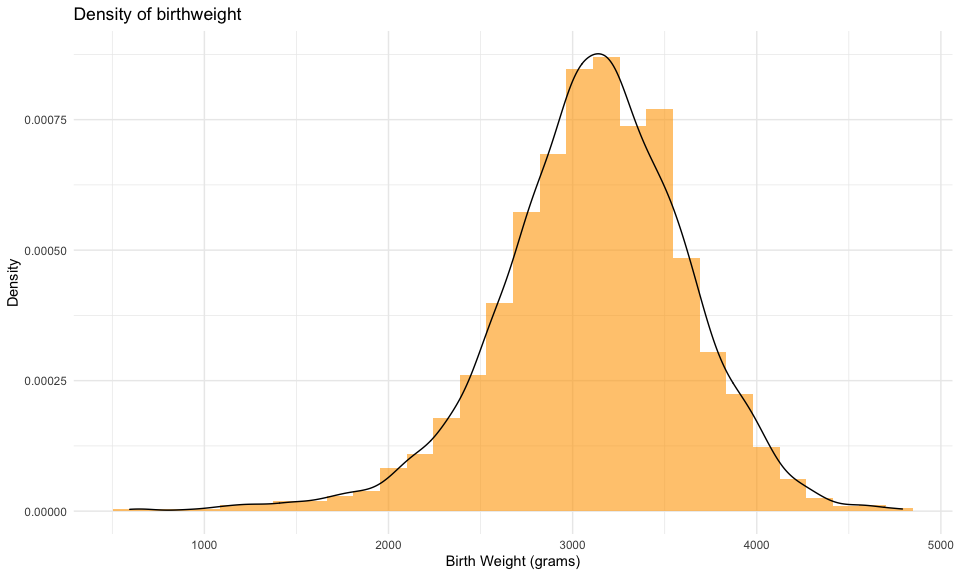
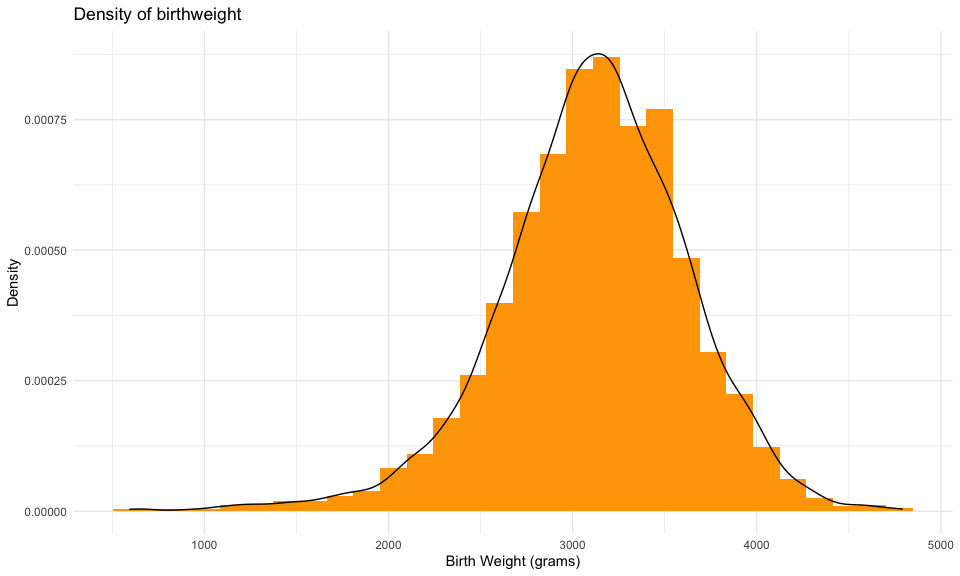
Problem 1 -> propose a regression model and simple diagnostics

Changed region(s): [[0.2188, 0.0938, 0.9375, 0.9062]]

diff --git a/p8105_hw6_qw2331.md b/p8105_hw6_qw2331.md
@@ -23,17 +23,30 @@ baby_bwt_df <-
     malform = factor(recode(malform, `0` = "absent", `1` = "present")),
     frace = factor(race[frace]),
     mrace = factor(race[mrace])
-  )
+  ) %>% 
+  distinct()
+
+# Check missing values
+baby_bwt_df %>% 
+  is.na() %>% 
+  colSums()
 ```
+
+    ##  babysex    bhead  blength      bwt    delwt  fincome    frace  gaweeks 
+    ##        0        0        0        0        0        0       14        0 
+    ##  malform menarche  mheight   momage    mrace   parity  pnumlbw  pnumsga 
+    ##        0        0        0        0        0        0        0        0 
+    ##    ppbmi     ppwt   smoken   wtgain 
+    ##        0        0        0        0
 
 ### 1.3 Propose a regression model
 
-**1.3.1 Check distribution of target variable `brithweight`**
+**1.3.1 Distribution of target variable `brithweight`**
 
 ``` r
 baby_bwt_df %>% 
   ggplot(aes(bwt)) + 
-  geom_histogram(aes(y = ..density..), fill = "orange", alpha = .6) +
+  geom_histogram(aes(y = ..density..), fill = "orange") +
   geom_density(alpha = .4) + 
   labs(
     title = "Density of birthweight",
@@ -47,7 +60,8 @@ baby_bwt_df %>%
 **1.3.2 Summary statistics and check outliers**
 
 ``` r
-# Check for missing values and a brief data review
+# Check for missing values
+# Or a brief data review using function str()
 summary(baby_bwt_df)
 ```
 
@@ -86,56 +100,6 @@ summary(baby_bwt_df)
     ##  Mean   : 4.145   Mean   : 22.08  
     ##  3rd Qu.: 5.000   3rd Qu.: 28.00  
     ##  Max.   :60.000   Max.   : 89.00
-
-``` r
-str(baby_bwt_df)
-```
-
-    ## spec_tbl_df [4,342 × 20] (S3: spec_tbl_df/tbl_df/tbl/data.frame)
-    ##  $ babysex : Factor w/ 2 levels "female","male": 1 2 1 2 1 2 1 1 2 2 ...
-    ##  $ bhead   : num [1:4342] 34 34 36 34 34 33 33 33 36 33 ...
-    ##  $ blength : num [1:4342] 51 48 50 52 52 52 46 49 52 50 ...
-    ##  $ bwt     : num [1:4342] 3629 3062 3345 3062 3374 ...
-    ##  $ delwt   : num [1:4342] 177 156 148 157 156 129 126 140 146 169 ...
-    ##  $ fincome : num [1:4342] 35 65 85 55 5 55 96 5 85 75 ...
-    ##  $ frace   : Factor w/ 4 levels "Asian","Black",..: 4 2 4 4 4 4 2 4 4 2 ...
-    ##  $ gaweeks : num [1:4342] 39.9 25.9 39.9 40 41.6 ...
-    ##  $ malform : Factor w/ 2 levels "absent","present": 1 1 1 1 1 1 1 1 1 1 ...
-    ##  $ menarche: num [1:4342] 13 14 12 14 13 12 14 12 11 12 ...
-    ##  $ mheight : num [1:4342] 63 65 64 64 66 66 72 62 61 64 ...
-    ##  $ momage  : num [1:4342] 36 25 29 18 20 23 29 19 13 19 ...
-    ##  $ mrace   : Factor w/ 4 levels "Asian","Black",..: 4 2 4 4 4 4 2 4 4 2 ...
-    ##  $ parity  : num [1:4342] 3 0 0 0 0 0 0 0 0 0 ...
-    ##  $ pnumlbw : num [1:4342] 0 0 0 0 0 0 0 0 0 0 ...
-    ##  $ pnumsga : num [1:4342] 0 0 0 0 0 0 0 0 0 0 ...
-    ##  $ ppbmi   : num [1:4342] 26.3 21.3 23.6 21.8 21 ...
-    ##  $ ppwt    : num [1:4342] 148 128 137 127 130 115 105 119 105 145 ...
-    ##  $ smoken  : num [1:4342] 0 0 1 10 1 0 0 0 0 4 ...
-    ##  $ wtgain  : num [1:4342] 29 28 11 30 26 14 21 21 41 24 ...
-    ##  - attr(*, "spec")=
-    ##   .. cols(
-    ##   ..   babysex = col_double(),
-    ##   ..   bhead = col_double(),
-    ##   ..   blength = col_double(),
-    ##   ..   bwt = col_double(),
-    ##   ..   delwt = col_double(),
-    ##   ..   fincome = col_double(),
-    ##   ..   frace = col_double(),
-    ##   ..   gaweeks = col_double(),
-    ##   ..   malform = col_double(),
-    ##   ..   menarche = col_double(),
-    ##   ..   mheight = col_double(),
-    ##   ..   momage = col_double(),
-    ##   ..   mrace = col_double(),
-    ##   ..   parity = col_double(),
-    ##   ..   pnumlbw = col_double(),
-    ##   ..   pnumsga = col_double(),
-    ##   ..   ppbmi = col_double(),
-    ##   ..   ppwt = col_double(),
-    ##   ..   smoken = col_double(),
-    ##   ..   wtgain = col_double()
-    ##   .. )
-    ##  - attr(*, "problems")=<externalptr>
 
 ``` r
 # Check outliers using boxplots
@@ -181,3 +145,68 @@ ggcorrplot::ggcorrplot(
 ```
 
 <img src="p8105_hw6_qw2331_files/figure-gfm/unnamed-chunk-3-1.png" width="90%" />
+
+**1.3.4 Fit a regression model and diagnostics**
+
+``` r
+# Fit a model
+baby_bwt_df <- 
+  baby_bwt_df %>% 
+  select(babysex, bhead, blength, bwt, gaweeks)
+
+mod1 <- lm(bwt ~ bhead + blength, data = baby_bwt_df)
+
+# Present the output
+mod1 %>% 
+  broom::tidy() %>% 
+  select(term, estimate, p.value) %>% 
+  knitr::kable(digits = 3)
+```
+
+| term        |  estimate | p.value |
+|:------------|----------:|--------:|
+| (Intercept) | -6029.620 |       0 |
+| bhead       |   146.021 |       0 |
+| blength     |    85.030 |       0 |
+
+``` r
+# Diagnostics
+# Residuals vs. Fits plot
+res_fit_plot <-   
+  baby_bwt_df %>% 
+  modelr::add_residuals(mod1) %>% 
+  modelr::add_predictions(mod1) %>% 
+  ggplot(aes(x = pred, y = resid)) + 
+  geom_point(size = 1.5, alpha = .4) + 
+  geom_hline(yintercept = 0, linetype = "dotted") + 
+  labs(
+    title = "Residuals vs. Fitted",
+    x = "Fitted values",
+    y = "Residuals"
+  )
+
+# QQ plot
+qq_plot <- 
+  baby_bwt_df %>% 
+  ggplot(aes(sample = bwt)) + 
+  geom_qq(alpha = .4) + 
+  geom_qq_line(linetype = "dotted") + 
+  labs(
+    title = "Normal Q-Q",
+    x = "Theoretical Quantiles",
+    y = "Sample Quantiles"
+  )
+
+res_fit_plot + qq_plot
+```
+
+<img src="p8105_hw6_qw2331_files/figure-gfm/unnamed-chunk-4-1.png" width="90%" />
+
+**Modeling process:**  
++ We firstly check the distribution of the target variable `bwt` and
+find out this variable follows normal distribution  
++ Then check out the missing values and outliers for numeric variables  
++ Visualize the correlation matrix and choose variables `bhead` and
+`blength` as these two variables reflect high correlations with the
+target variable `bwt`  
++ Build a linear regression model with low level of complexity
